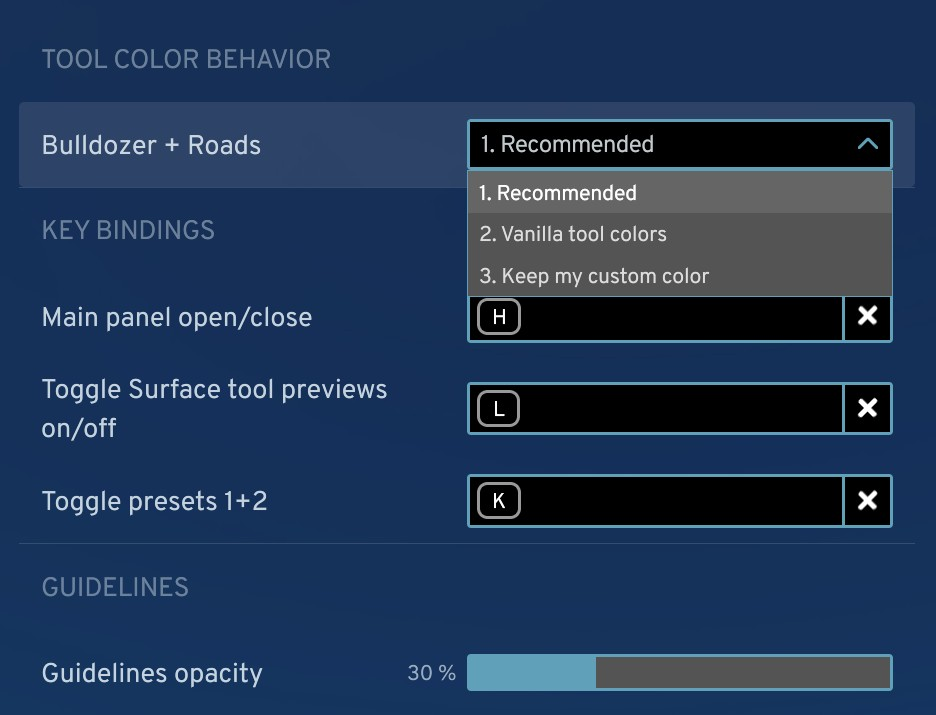
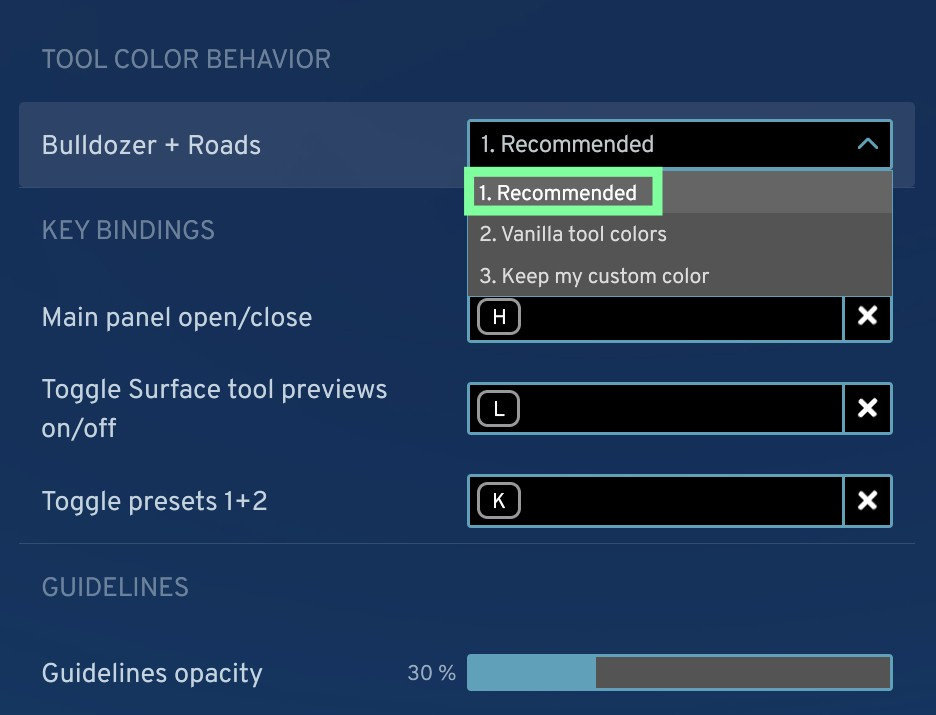
update formatting of Preset glow and info button

Changed region(s): [[0.4957, 0.2154, 0.7126, 0.3077]]

diff --git a/HoverColors/UI/src/MochiColorPickerPanel.module.scss b/HoverColors/UI/src/MochiColorPickerPanel.module.scss
@@ -32,8 +32,8 @@
     display: flex;
     align-items: center;
     gap: 6rem;
-    margin: -7rem -1rem 0 -1rem;
-    padding: 0.5rem 6rem 1rem 6rem;
+    margin: -3rem -1rem 0 -1rem;
+    padding: 3rem 6rem 1rem 6rem;
     border-radius: 12rem 12rem 0 0;
     background-color: transparent;
     transition: background-color 120ms ease-out;
@@ -113,7 +113,7 @@
     box-shadow: inset 0 0 0 1rem rgba(255, 255, 255, 0.06);
 }
 
-// Info button — same size as the ↺ reset-presets button (24rem).
+// Info button — round like the close button, but still aligned with the title row.
 .infoButton {
     width: 24rem;
     height: 24rem;
@@ -123,21 +123,22 @@
     outline: none;
     // Nudge right so its left edge aligns with the icon buttons in the body below.
     margin-left: 3rem;
+    border-radius: 50%;
     border-color: transparent;
     background-color: transparent;
 
     &:hover {
-        background-color: rgba(255, 255, 255, 0.08);
+        background-color: rgba(84, 215, 255, 0.14);
         border-color: transparent;
         box-shadow: none;
     }
 }
 
-// Solid blue when tooltips are OFF — same #1E83AA as drag grip and Fill SVG.
-// Semi-transparent versions wash out against the panel background, so use solid.
+// Transparent cyan when tooltips are OFF. Strong enough to signal state,
+// but soft enough not to steal attention from the color controls.
 .infoButtonActive {
-    background-color: #1E83AA !important;
-    border-color: #1E83AA !important;
+    background-color: rgba(30, 131, 170, 0.55) !important;
+    border-color: rgba(84, 215, 255, 0.42) !important;
 }
 
 .infoIcon {
@@ -416,8 +417,8 @@
     display: flex;
     justify-content: space-between;
     align-items: center;
-    // Bottom padding: 14rem leaves just enough room for the drag grip without a large empty gap.
-    padding: 6rem 8rem 10rem 8rem;
+    // Bottom padding leaves room for the drag grip without creating a large empty shelf.
+    padding: 5rem 8rem 7rem 8rem;
     border-top: 1rem solid rgba(255, 255, 255, 0.12);
 }
 
@@ -608,7 +609,7 @@
     background-color: rgba(36, 54, 66, 0.58) !important;
     box-shadow:
         inset 0 0 0 1rem rgba(84, 215, 255, 0.16),
-        0 0 7rem rgba(84, 215, 255, 0.55);
+        0 0 7rem rgba(84, 215, 255, 0.60);
 }
 
 // Reset button as a bare SVG icon. Do not use a text arrow here: some CJK fonts